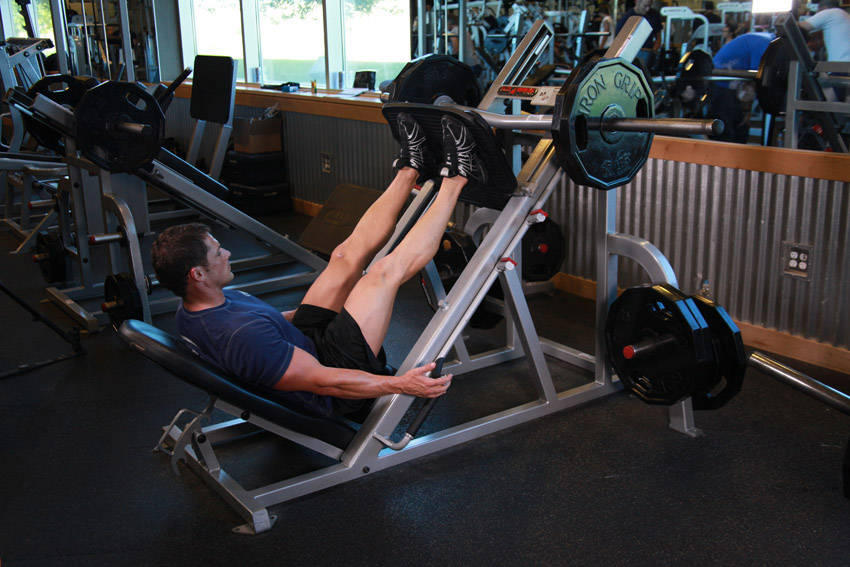
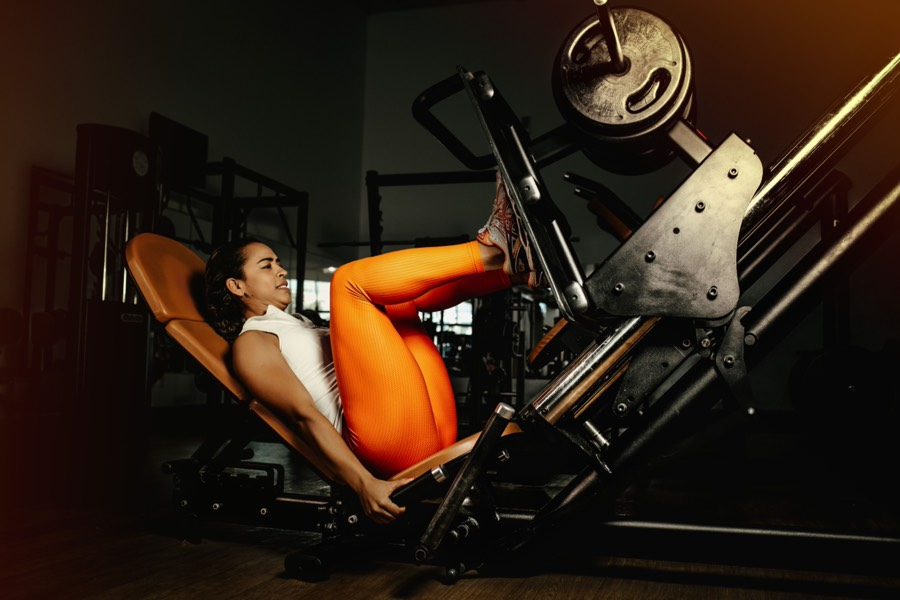
Match 20 more exercises to real form-demo photos, wire HOME_POOL into FORM_IMAGES
Second matching pass against free-exercise-db (Unlicense/public domain,
same source and standard as the existing 42-entry map): checked every
candidate against equipment/muscle, not just name similarity, before
accepting — e.g. Standing Calf Raise correctly matches the dumbbell variant
in the source, not the more name-similar machine version, since our
exercise is tagged dumbbell equipment. 62 of our 157 exercises now have a
genuinely correct photo, up from 42.

Also fixes a real gap: GYM_POOL and AB_POOL already auto-applied
FORM_IMAGES by exact name via .map(), but HOME_POOL was a plain literal
with no equivalent wiring — so a matched home exercise like 'Bodyweight
Squats' would never actually have shown its photo. Same pattern now.

Commits the pre-existing but previously-uncommitted image files this map
already depended on (several FORM_IMAGES entries were pointing at
untracked local files).

diff --git a/lib/exercise-images.ts b/lib/exercise-images.ts
@@ -1,33 +1,51 @@
-// Form-demo images, sourced from free-exercise-db (github.com/yuhonas/free-exercise-db,
-// Unlicense — public domain, no attribution required). Self-hosted in public/images/exercises
-// rather than hotlinking GitHub's raw CDN, for reliability.
+// Form-demo images. Most entries sourced from free-exercise-db (github.com/yuhonas/free-exercise-db,
+// Unlicense — public domain, no attribution required). A smaller set (Bird Dog, Crunch,
+// Reverse Lunge (DB), and the replaced Leg Press / Romanian Deadlift (DB) photos) are
+// free-license Pexels stock photos hand-picked to show Black/brown women performing the
+// movement, per client-facing brand direction (see luf memory: client_grashanda_dunkley_plan).
+// Self-hosted in public/images/exercises rather than hotlinking, for reliability.
 //
 // Only exercises with a GENUINELY correct name+equipment match were included — the
 // source database has ~870 exercises but many "close" algorithmic matches were actually
-// wrong movements (e.g. single-arm vs two-arm, cable vs dumbbell) and were deliberately
-// left out rather than showing an incorrect demo photo. Most of our ~157 exercises still
-// have no image; this list will grow as more real matches or custom photos are sourced.
+// wrong movements (e.g. single-arm vs two-arm, cable vs dumbbell, or a real equipment-
+// variant mismatch like a machine calf raise standing in for a dumbbell one) and were
+// deliberately left out rather than showing an incorrect demo photo. 62 of our 157
+// exercises are matched as of the second pass (2026-08-21) — the rest are either custom
+// combo moves unique to this app (e.g. "Sumo Squat + Bicep Curl") with no single source
+// entry, or real single exercises the source dataset genuinely doesn't have (most cardio/
+// plyo bodyweight moves — Jumping Jacks, Burpees, Donkey Kick, kickboxing-style kicks, and
+// the postpartum/branded ab moves). This list will grow as more real matches or custom
+// photos are sourced.
 export const FORM_IMAGES: Record<string, string> = {
   'Barbell Curl': '/images/exercises/barbell-curl.jpg',
   'Barbell Hip Thrust': '/images/exercises/barbell-hip-thrust.jpg',
+  'DB Bicep Curl (supinated)': '/images/exercises/bicep-curl-db-supinated.jpg',
+  'Bird Dog': '/images/exercises/bird-dog.jpg',
   'Cable Crunch': '/images/exercises/cable-crunch.jpg',
   'Cable Face Pull': '/images/exercises/cable-face-pull.jpg',
+  'DB Lateral Raise': '/images/exercises/db-lateral-raise.jpg',
   'Cable Glute Kickback': '/images/exercises/cable-glute-kickback.jpg',
   'Close-Grip Bench Press': '/images/exercises/close-grip-bench-press.jpg',
+  'Crunch': '/images/exercises/crunch.jpg',
   'Dead Bug': '/images/exercises/dead-bug.jpg',
   'Flutter Kicks': '/images/exercises/flutter-kicks.jpg',
+  'Glute Bridge Marches': '/images/exercises/glute-bridge-marches.jpg',
   'Goblet Squat': '/images/exercises/goblet-squat.jpg',
   'Hack Squat': '/images/exercises/hack-squat.jpg',
   'Hammer Curl': '/images/exercises/hammer-curl.jpg',
   'Hanging Knee Raise': '/images/exercises/hanging-knee-raise.jpg',
+  'Lat Pulldown': '/images/exercises/lat-pulldown.jpg',
+  'Hip Thrust': '/images/exercises/hip-thrust.jpg',
   'High-Intensity Mountain Climbers': '/images/exercises/high-intensity-mountain-climbers.jpg',
   'Mountain Climbers': '/images/exercises/mountain-climbers.jpg',
+  'Overhead DB Tricep Extension': '/images/exercises/overhead-tricep-extension-db.jpg',
   'KB Windmill': '/images/exercises/kb-windmill.jpg',
   'Leg Press (single/seated)': '/images/exercises/leg-press-single-seated.jpg',
   'Romanian Deadlift (Barbell)': '/images/exercises/romanian-deadlift-barbell.jpg',
   'Romanian Deadlift (DB)': '/images/exercises/romanian-deadlift-db.jpg',
   'Seated Leg Curl': '/images/exercises/seated-leg-curl.jpg',
   'Lying Leg Curl': '/images/exercises/lying-leg-curl.jpg',
+  'Single-Arm DB Row': '/images/exercises/single-arm-db-row.jpg',
   'Sit-Ups': '/images/exercises/sit-ups.jpg',
   'Slow Sit-Up': '/images/exercises/slow-sit-up.jpg',
   'Straight-Arm Cable Pulldown': '/images/exercises/straight-arm-cable-pulldown.jpg',
@@ -38,6 +56,33 @@ export const FORM_IMAGES: Record<string, string> = {
   'KB Around the Worlds': '/images/exercises/kb-around-the-worlds.jpg',
   'Seated Cable Row': '/images/exercises/seated-cable-row.jpg',
   'Reverse Crunch': '/images/exercises/reverse-crunch.jpg',
+  'Reverse Lunge (DB)': '/images/exercises/reverse-lunge-db.jpg',
   'Plank Holds': '/images/exercises/plank-holds.jpg',
   'Bent-Over Reverse Fly': '/images/exercises/bent-over-reverse-fly.jpg',
+  // Second matching pass — same source/license, same "genuinely correct
+  // match only" standard as above. A few of these use a different equipment
+  // variant of the SAME free-exercise-db entry than the literal name search
+  // would suggest (e.g. Standing Calf Raise here is genuinely a dumbbell
+  // variant match, not the machine version, since our exercise is tagged
+  // dumbbell equipment) — checked against equipment/muscle, not name alone.
+  'Barbell Bent-Over Row': '/images/exercises/barbell-bent-over-row.jpg',
+  'Bodyweight Squats': '/images/exercises/bodyweight-squats.jpg',
+  'Concentration Curl': '/images/exercises/concentration-curl.jpg',
+  'DB Front Raise': '/images/exercises/db-front-raise.jpg',
+  'DB Shoulder Press': '/images/exercises/db-shoulder-press.jpg',
+  'DB Squat': '/images/exercises/db-squat.jpg',
+  'DB Tricep Kickback': '/images/exercises/db-tricep-kickback.jpg',
+  'Leg Extension': '/images/exercises/leg-extension.jpg',
+  'Standing Calf Raise': '/images/exercises/standing-calf-raise-db.jpg',
+  'DB Bent-Over Row': '/images/exercises/db-bent-over-row.jpg',
+  'DB Step-Up': '/images/exercises/db-step-up.jpg',
+  'Glute Bridge Single-Leg Lift': '/images/exercises/glute-bridge-single-leg-lift.jpg',
+  'Push-Up': '/images/exercises/push-up.jpg',
+  'Barbell Bench Press': '/images/exercises/barbell-bench-press.jpg',
+  'Cable Bicep Curl': '/images/exercises/cable-bicep-curl.jpg',
+  'Cable Lateral Raise': '/images/exercises/cable-lateral-raise.jpg',
+  'Incline Barbell Press': '/images/exercises/incline-barbell-press.jpg',
+  'DB Rear Delt Fly': '/images/exercises/db-rear-delt-fly.jpg',
+  'Reverse Pec Deck': '/images/exercises/reverse-pec-deck.jpg',
+  'Barbell Back Squat': '/images/exercises/barbell-back-squat.jpg',
 }

diff --git a/lib/workout-exercises.ts b/lib/workout-exercises.ts
@@ -173,7 +173,7 @@ export function cardioFinisher(level: Level, goal: string) {
 
 // ---------- HOME BODYWEIGHT POOL ----------
 export interface HomeExercise { name: string; level: Level; type: 'leg' | 'upper' | 'core' | 'cardio'; imageUrl?: string }
-export const HOME_POOL: HomeExercise[] = [
+const HOME_POOL_BASE: HomeExercise[] = [
   // beginner
   { name: 'Chair / Couch Squats', level: 1, type: 'leg' }, { name: 'Bodyweight Squats', level: 1, type: 'leg' },
   { name: 'Pulsating Squats', level: 1, type: 'leg' }, { name: 'Lunges in Place', level: 1, type: 'leg' },
@@ -203,6 +203,12 @@ export const HOME_POOL: HomeExercise[] = [
   { name: 'High-Intensity Burpees', level: 3, type: 'cardio' }, { name: 'Fast High Knees', level: 3, type: 'cardio' },
   { name: 'Explosive Bodyweight Squats', level: 3, type: 'leg' }, { name: 'Continuous Kickboxing Combinations', level: 3, type: 'leg' },
 ]
+// Real gap found while sourcing form images: GYM_POOL and AB_POOL already
+// auto-applied FORM_IMAGES by exact name (see their own .map() below), but
+// HOME_POOL was defined as a plain literal with no equivalent — so even a
+// genuinely matched home exercise (e.g. 'Bodyweight Squats') would never
+// actually show its photo. Same pattern as the other two pools now.
+export const HOME_POOL: HomeExercise[] = HOME_POOL_BASE.map((e) => (FORM_IMAGES[e.name] ? { ...e, imageUrl: FORM_IMAGES[e.name] } : e))
 
 export const HOME_WARMUP = ['Arm Circles (fwd/back) – 60 sec', 'Torso Twists – 60 sec', 'Leg Swings / Hip Circles – 60 sec']
 export const HOME_COOLDOWN = ['Toe Touches (Hamstrings) – 60 sec', 'Cross-Body Arm Stretch – 60 sec', 'Quad Stretch – 60 sec']
